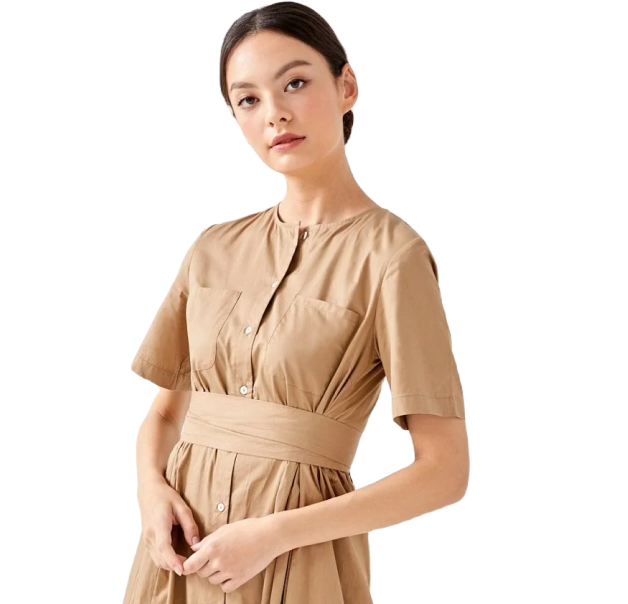
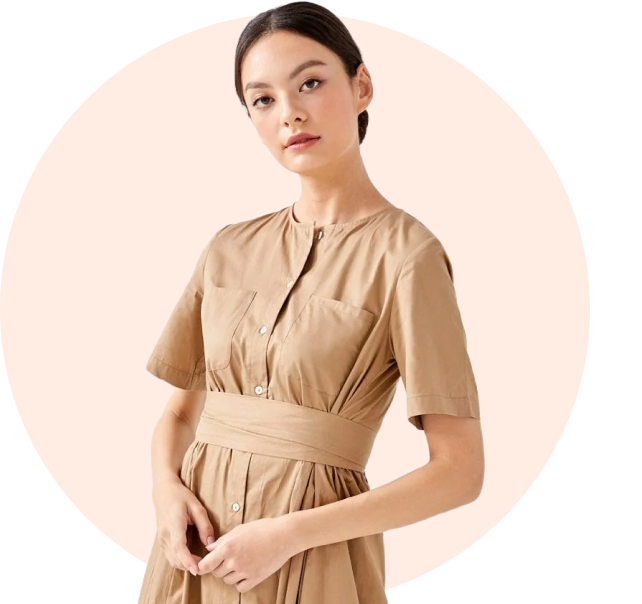
feat: add hover effect for button, replace img

diff --git a/src/components/hero/hero.tsx b/src/components/hero/hero.tsx
@@ -29,15 +29,6 @@ export default function Hero() {
                 </div>
             </div>
             <div className="hero__imgContainer">
-                <svg
-                    width="35vw"
-                    height="80vh"
-                    viewBox="0 0 600 601"
-                    fill="none"
-                    xmlns="http://www.w3.org/2000/svg"
-                >
-                    <ellipse cx="300" cy="300.5" rx="300" ry="300.5" fill="#FFECE3" />
-                </svg>
                 <img className="hero__img" src={heroImg} alt="" />
             </div>
         </div>

diff --git a/src/components/hero/Hero.css b/src/components/hero/Hero.css
@@ -58,6 +58,14 @@
     text-transform: capitalize;
 }
 
+.hero__button:hover {
+    opacity: 0.9;
+    -moz-transition: all 0.3s ease-in-out;
+    -o-transition: all 0.3s ease-in-out;
+    -webkit-transition: all 0.3s ease-in-out;
+    transition: all 0.3s ease-in-out;
+}
+
 .hero__logo {
     position: absolute;
     bottom: 0;
